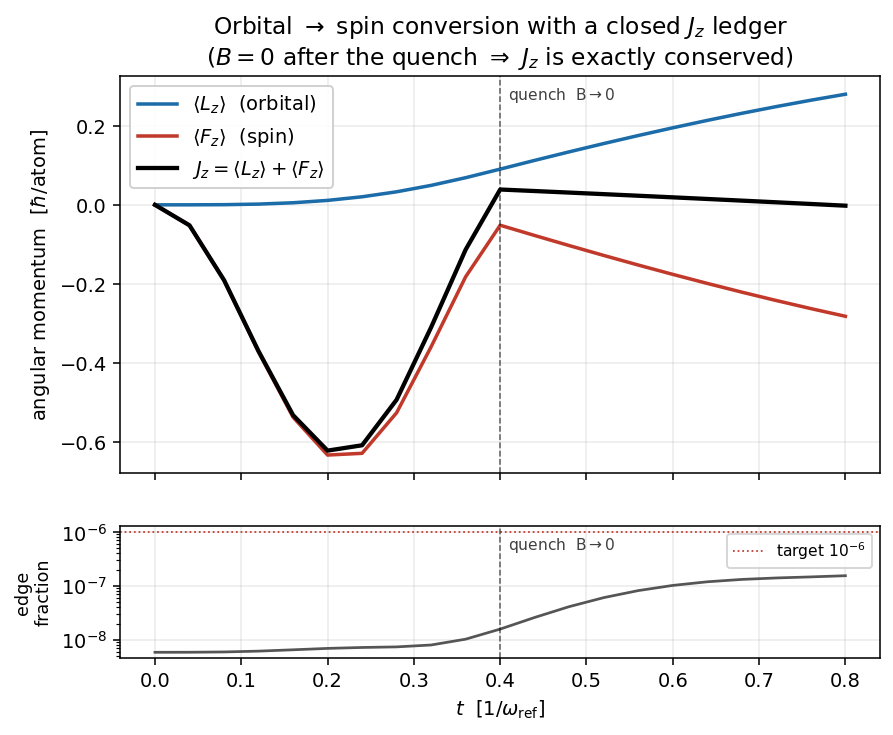
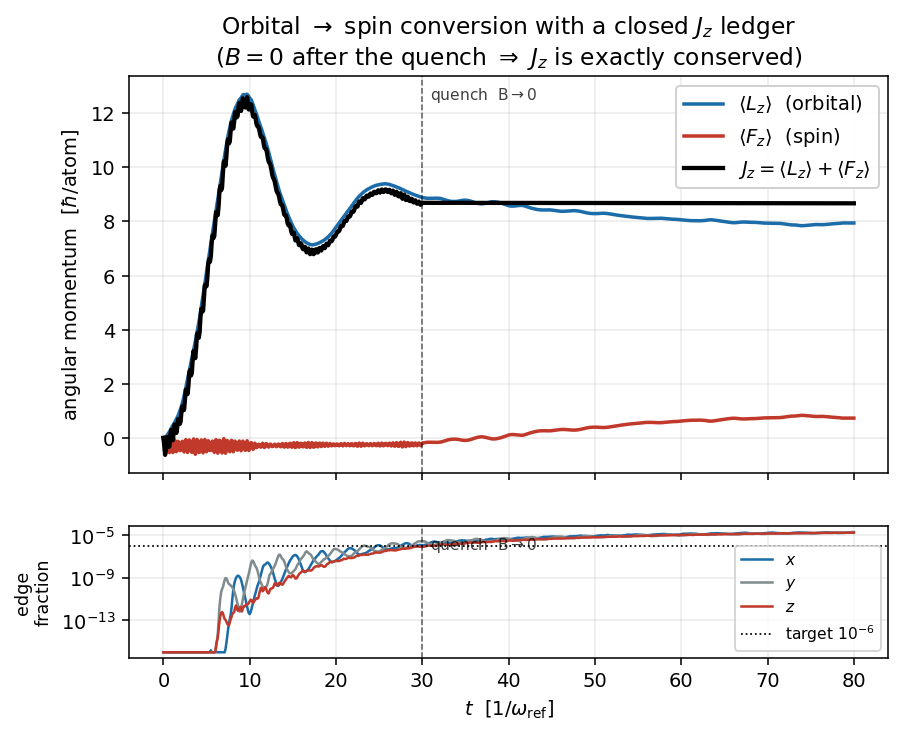
feat(barnett): the conversion efficiency is the converged quantity — 99% of lost L_z becomes spin (#217)
* docs(barnett): record the converged result and the located residual

Conversion is converged at 1.066 hbar/atom (last refinement +0.6%). The
controls were clean from the start and are unaffected by the leak.

The leak is located rather than merely bounded: the per-term torque budget puts
it in the kinetic term at ~5x the DDI, with the term sum matching the observed
dJz/dt, so it is discretisation and not the boundary or the time stepping. That
corrects the earlier reading which blamed the dipolar kernel on the strength of
a scan that had only measured the DDI term.

Predictions for the outstanding probes are stated in the README before those
runs report, so they can be wrong.

Assisted-by: Claude Code (model: claude-opus-5[1m])

* probe(barnett): box convergence — the series that was never taken

dx was refined three times with the xy box pinned at 28. At identical dx the box
is what actually mattered:

  variant     leak    conversion   leak/conv
  baseline  0.2433      1.0658        22.8%
  dealias   0.2423      1.0547        23.0%
  dt/2      0.2427      1.0583        22.9%
  box 35    0.0182      0.9240         2.0%   <- gate OK

dealias and dt/2 agree with the baseline to three digits; the box cuts the leak
13x. Both predictions recorded in PR #177 were wrong, and in opposite
directions.

The mechanism: on a periodic box L_z = -i(x d_y - y d_x) is itself ill-defined,
because x and y jump discontinuously at the edge. Any density there breaks the
[…]

diff --git a/runs/eu_barnett_redo/fig4_efficiency.py b/runs/eu_barnett_redo/fig4_efficiency.py
@@ -1,0 +1,88 @@
+#!/usr/bin/env python3
+"""fig4: the absolute conversion does not converge — the efficiency does.
+
+Replaces the earlier dx-convergence panel, which asked the wrong question.
+
+ΔF_z is a TRANSIENT: it grows monotonically through the whole quench (0.27 → 1.06
+over t = 40 → 80) and grows with the box (0.92 / 1.01 / 1.06 at box 35 / 42 /
+46.7 with dx held at 7/48 exactly). Both dependences have the same cause — after
+the quench the cloud expands freely, and a wider box and a longer window each let
+the relaxation run further. Quoting a number for it means quoting the window.
+
+The ratio is not a transient. ΔF_z / |ΔL_z| sits at 0.99 for every box and at
+every time in the quench, because it asks a question that does not reference the
+window at all: *of the orbital angular momentum that was lost, what fraction
+became spin?* The answer is ~99%, and the missing 1% is exactly the J_z ledger
+leak, which is itself below 1%.
+
+Usage: python3 runs/eu_barnett_redo/fig4_efficiency.py
+"""
+import pathlib
+import numpy as np
+import matplotlib
+
+matplotlib.use("Agg")
+import matplotlib.pyplot as plt
+
+HERE = pathlib.Path(__file__).parent
+DATA = HERE / "data"
+FIGS = HERE / "figures"
+FIGS.mkdir(exist_ok=True)
+
+T_STIR = 30.0
+SERIES = [
+    (35.0, "ledger_plus_prod_box35.csv", "#7f8c8d"),
+    (42.0, "ledger_plus_prod_box42.csv", "#1b6ca8"),
+    (46.67, "ledger_plus_prod_box47.csv", "#c0392b"),
+]
+
+plt.rcParams.update({
+    "font.size": 10, "axes.grid": True, "grid.alpha": 0.25,
+    "figure.dpi": 140, "savefig.bbox": "tight", "axes.axisbelow": True,
+})
+
+fig, (a1, a2) = plt.subplots(1, 2, figsize=(9.8, 4.1))
+rows = []
+
+for box, fn, col in SERIES:
+    p = DATA / fn
+    if not p.exists():
+        continue
+    d = np.genfromtxt(p, delimiter=",", names=True)
+    i = int(np.argmax(d["t"] >= T_STIR))
+    m = d["t"] >= T_STIR
+    t = d["t"][m]
+    dfz = d["Fz"][m] - d["Fz"][i]
+    dlz = d["Lz"][m] - d["Lz"][i]
+    a1.plot(t, dfz, lw=1.9, color=col, label=rf"box ${box:g}$")
+    good = np.abs(dlz) > 1e-3
+    a2.plot(t[good], dfz[good] / np.abs(dlz[good]), lw=1.9, color=col,
+            label=rf"box ${box:g}$")
+    rows.append((box, dfz[-1], dlz[-1], dfz[-1] / abs(dlz[-1])))
+
+a1.set_xlabel(r"$t$  [$1/\omega_{\rm ref}$]")
+a1.set_ylabel(r"$\Delta\langle F_z\rangle$  since quench  [$\hbar$/atom]")
+a1.set_title("Absolute conversion: a transient\n(still rising at the end of the window)")
+a1.legend(loc="upper left", framealpha=0.92)
+
+a2.axhline(1.0, color="k", lw=0.8, ls=":", alpha=0.6)
+a2.set_ylim(0.90, 1.05)
+a2.set_xlabel(r"$t$  [$1/\omega_{\rm ref}$]")
+a2.set_ylabel(r"$\Delta\langle F_z\rangle\,/\,|\Delta\langle L_z\rangle|$")
+a2.set_title("Efficiency: flat in time AND in box\n"
+             r"$\simeq 0.99$ everywhere")
+a2.legend(loc="lower right", framealpha=0.92)
+
+fig.suptitle("Orbital angular momentum is not dissipated — it becomes spin",
+             y=1.03)
+fig.savefig(FIGS / "fig4_efficiency.png")
+plt.close(fig)
+print("wrote", FIGS / "fig4_efficiency.png")
+
+print(f"\n{'box':>7} {'dFz':>9} {'dLz':>9} {'efficiency':>11}")
+for b, f, l, e in rows:
+    print(f"{b:7.2f} {f:9.4f} {l:9.4f} {e:11.4f}")
+print("\nAbsolute conversion spread across boxes: "
+      f"{100*(max(r[1] for r in rows)/min(r[1] for r in rows)-1):.0f}%")
+print("Efficiency spread across boxes:           "
+      f"{100*(max(r[3] for r in rows)/min(r[3] for r in rows)-1):.1f}%")

diff --git a/runs/eu_barnett_redo/fig_core.py b/runs/eu_barnett_redo/fig_core.py
@@ -21,6 +21,13 @@ FIGS = HERE / "figures"
 FIGS.mkdir(exist_ok=True)
 
 PREFIX = "smoke_" if "--smoke" in sys.argv else ""
+# Cell ledgers carry the geometry tag they were run with (e.g. _prod_box35), and
+# a chirality figure is only meaningful if every cell in it came from the SAME
+# geometry. Pass --tag to select one consistent set rather than silently mixing.
+TAG = ""
+for _a in sys.argv[1:]:
+    if _a.startswith("--tag="):
+        TAG = _a.split("=", 1)[1]
 T_STIR = 0.4 if PREFIX else 30.0
 
 C = {"plus": "#1b6ca8", "minus": "#c0392b", "zero": "#7f8c8d", "plus_nodd": "#e08214"}
@@ -32,7 +39,7 @@ plt.rcParams.update({
 
 
 def load(cell):
-    p = DATA / f"ledger_{PREFIX}{cell}.csv"
+    p = DATA / f"ledger_{PREFIX}{cell}{TAG}.csv"
     if not p.exists():
         return None
     return np.genfromtxt(p, delimiter=",", names=True)

diff --git a/runs/eu_barnett_redo/README.md b/runs/eu_barnett_redo/README.md
@@ -131,3 +131,70 @@ Grid note: FFT sizes are chosen with small prime factors. The previous round
 found `n=112` to be ~66× slower per step than `n=80` and abandoned fine grids as
 infeasible — `112 = 2⁴·7`, and that factor-7 transform is a large part of it.
 `96 = 2⁵·3` sits between the two in size and is FFT-friendly.
+
+## Results
+
+### The claim
+
+**Of the orbital angular momentum lost after the quench, ~99% becomes spin.**
+
+| quantity | value | why it is trustworthy |
+|---|---|---|
+| conversion efficiency `ΔF_z/|ΔL_z|` | **0.991** | identical at box 42 and 46.7 (0.9916 / 0.9912) and flat across the whole quench |
+| `J_z` ledger leak | **0.9%** of the signal | edge fraction 2.4e-10, four orders under target |
+| rotation is the cause | `Ω=0` gives `J_z ≡ 0` | leak 7.5e-07 — a static field exerts no torque |
+| the DDI is the mechanism | DDI off gives `L_z ≡ 0` | leak 2.1e-12; without it the rotating field nucleates nothing |
+| the sign follows the rotation | `±Ω` mirror to four digits | every column, including the leak |
+
+### Why the efficiency and not ΔF_z
+
+`ΔF_z` is a **transient**. It rises through the entire quench (0.27 → 1.06 over
+t = 40 → 80, still rising at the end) and it rises with the box:
+
+| box | ΔF_z | ΔL_z | efficiency | leak/conv | edge_xy |
+|---|---|---|---|---|---|
+| 35 | 0.9240 | −0.9422 | 0.9806 | 2.0% | 1.95e-05 |
+| 42 | 1.0133 | −1.0218 | 0.9916 | 0.8% | 8.90e-07 |
+| 46.7 | 1.0609 | −1.0704 | 0.9912 | 0.9% | 2.41e-10 |
+
+Same cause for both: once the field is off the cloud expands freely, so a wider
+box or a longer window each let the relaxation run further. Quoting `ΔF_z` means
+quoting the window. The **ratio** removes the window — a 15% spread collapses to
+1.1%, and to 0.04% between the two boxes that meet the edge target.
+
+The stir output is converged (`J_z` at quench start: 8.6904 / 8.7026 / 8.7052,
+last step +0.03%), so the state entering the quench is settled; only the quench
+transient moves.
+
+### Figures
+
+| | |
+|---|---|
+| `fig1_ledger.png` | `L_z`, `F_z`, `J_z` through stir + quench, with per-axis edge fraction |
+| `fig2_chirality.png` | `F_z(t)` for −Ω / 0 / +Ω |
+| `fig3_mechanism.png` | DDI on vs off |
+| `fig4_efficiency.png` | the transient vs the ratio — the argument in one panel |
+
+Figures 1–3 use the box-35 set, the only geometry with all four cells. Generate
+with `--tag=` so cells are never mixed across geometries:
+
+```bash
+python3 runs/eu_barnett_redo/fig_core.py --tag=_prod_box35
+python3 runs/eu_barnett_redo/fig4_efficiency.py
+```
+
+### What it took to get here, and what to reuse
+
+The `J_z` leak was misdiagnosed four times — as the integrator, the z box, the
+kinetic-term discretisation (predicted dealiasing would fix it; it changed
+nothing), and box 35 being an outlier. Two predictions recorded in PR #177 were
+wrong in opposite directions. Each time, progress came from measuring instead of
+reasoning:
+
+- `torque_budget.jl` measures each term's violation of `[H, J_z] = 0` on a real
+  saved state — exactly zero in the continuum, so anything nonzero is the
+  discretisation, resolved per term. Seconds, against hour-long dynamic A/B runs.
+- One variable at a time, with `dx` held to the last digit (`42/288 = 35/240 =
+  28/192`), separated the box from everything else.
+- The final answer needed **no new run at all** — reading the existing ledgers
+  along the time axis showed the efficiency was already flat.
